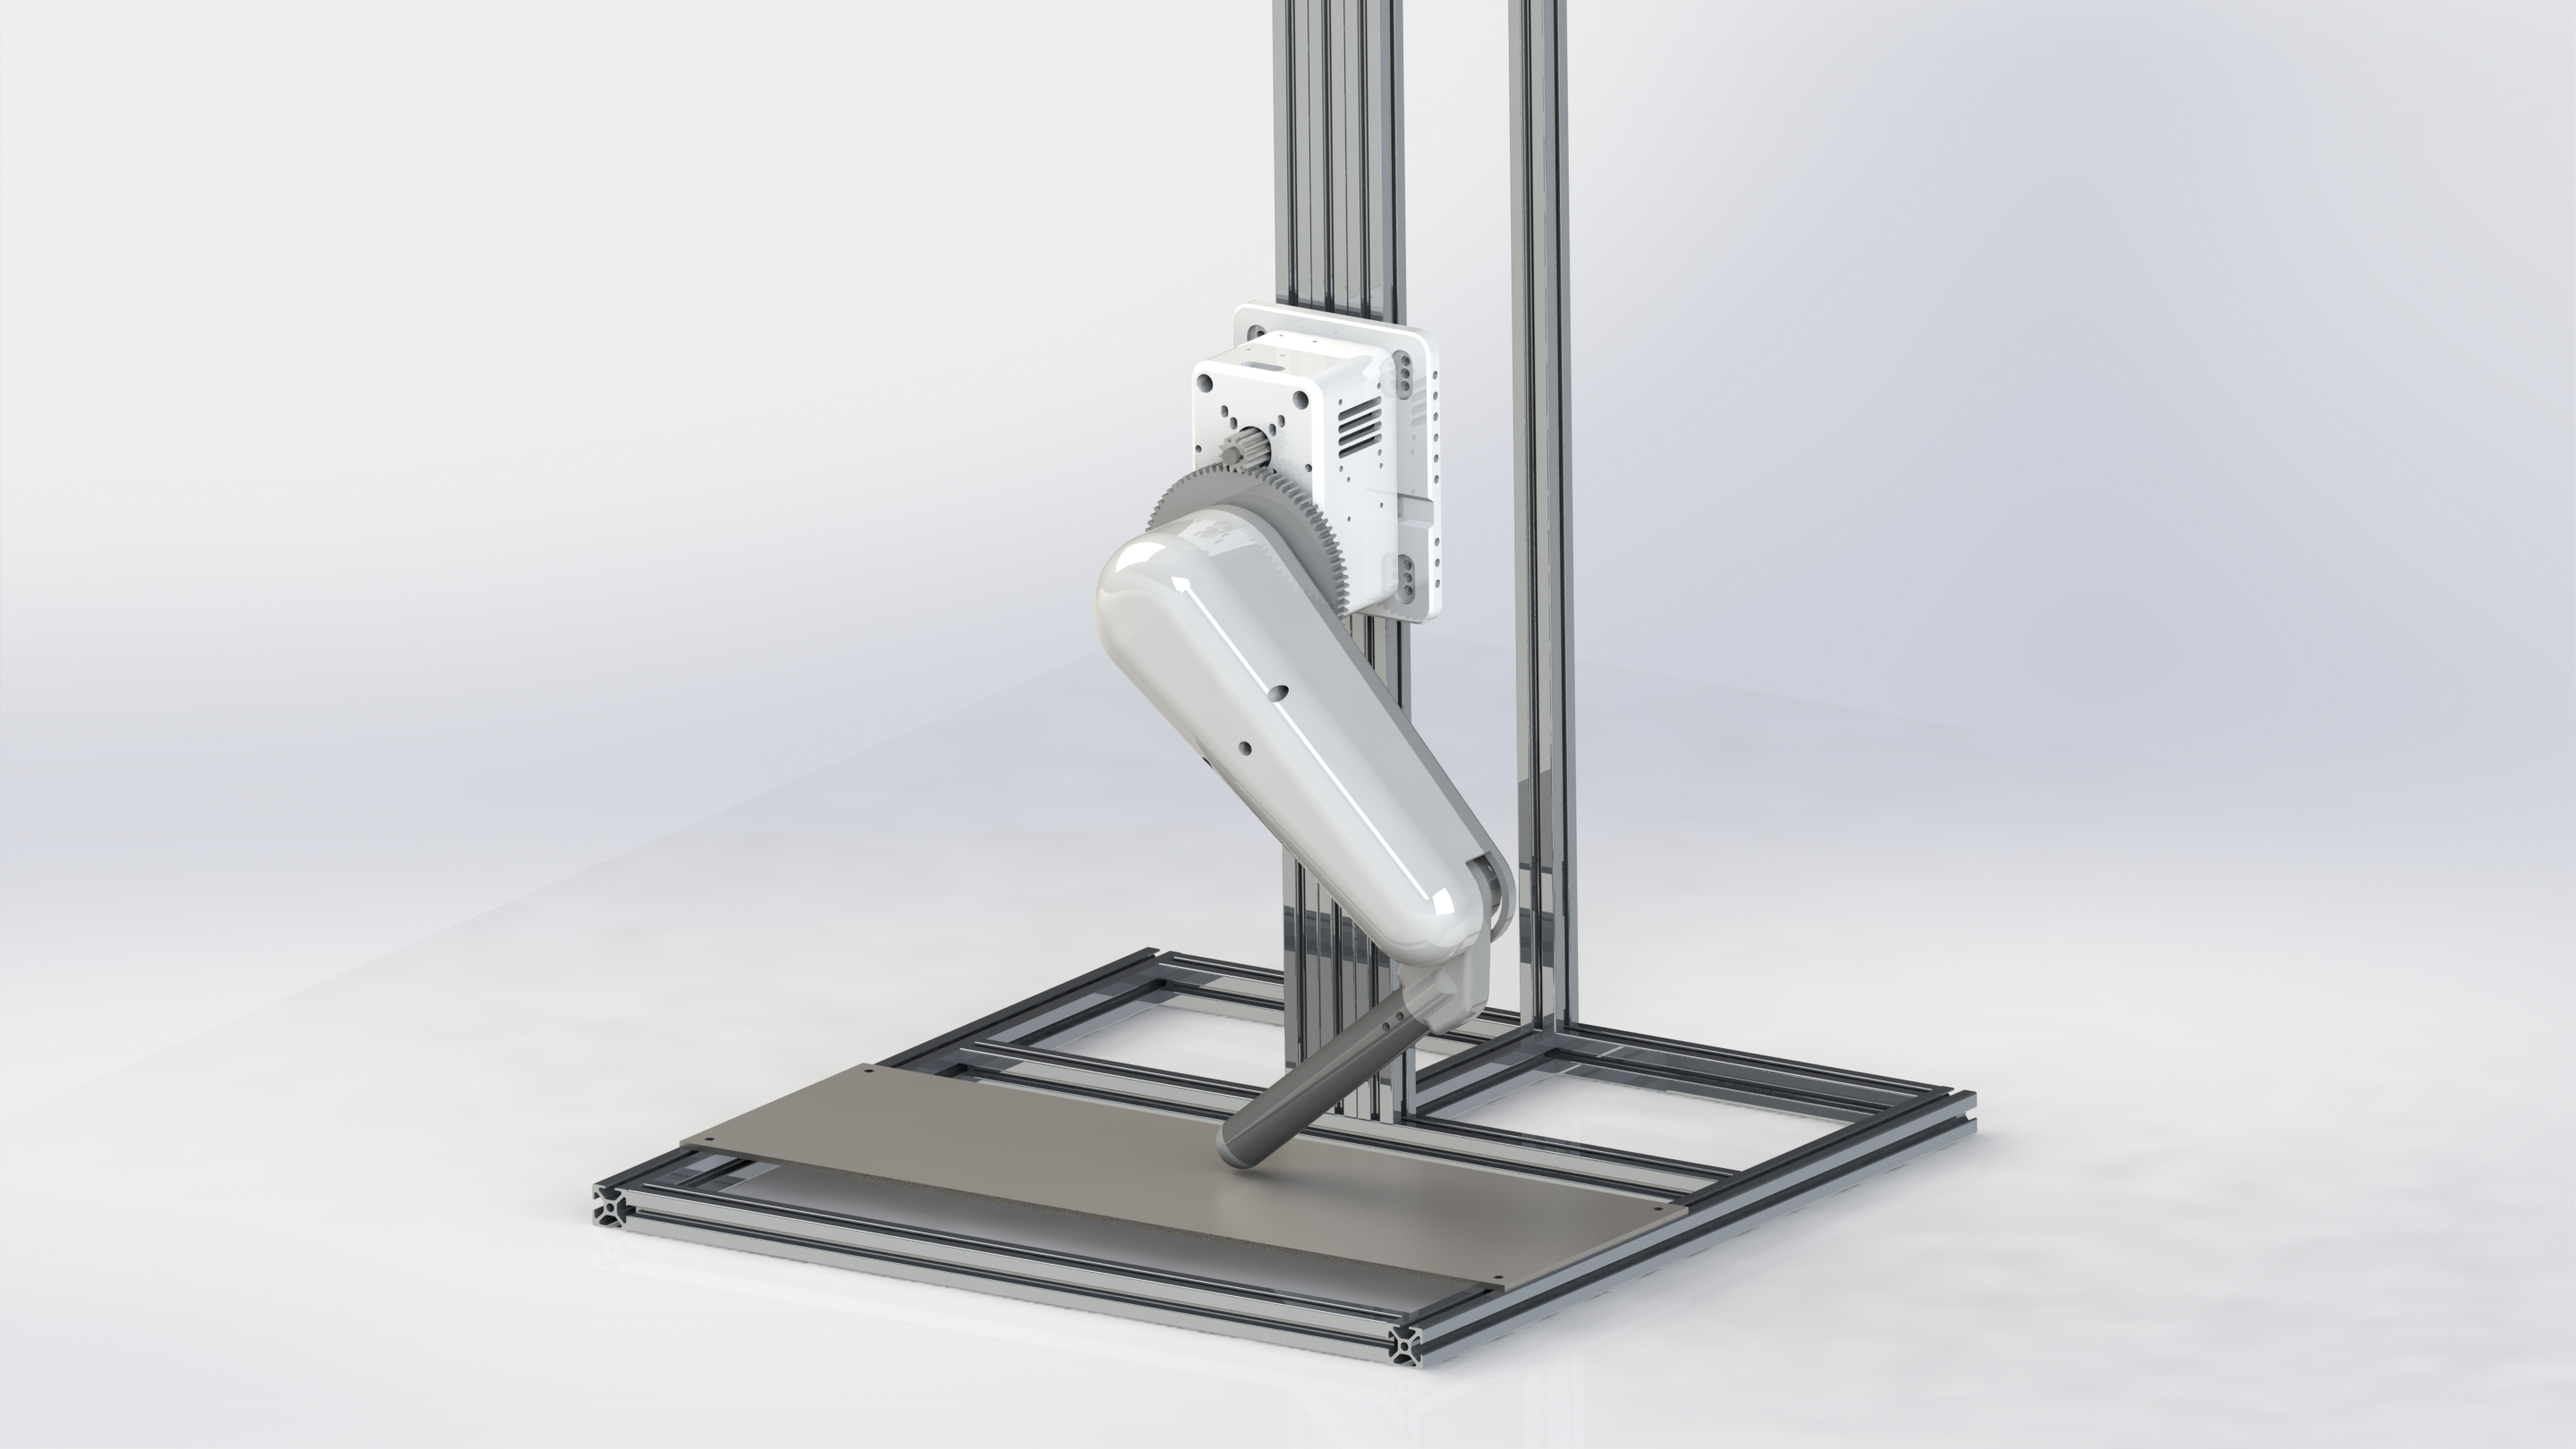
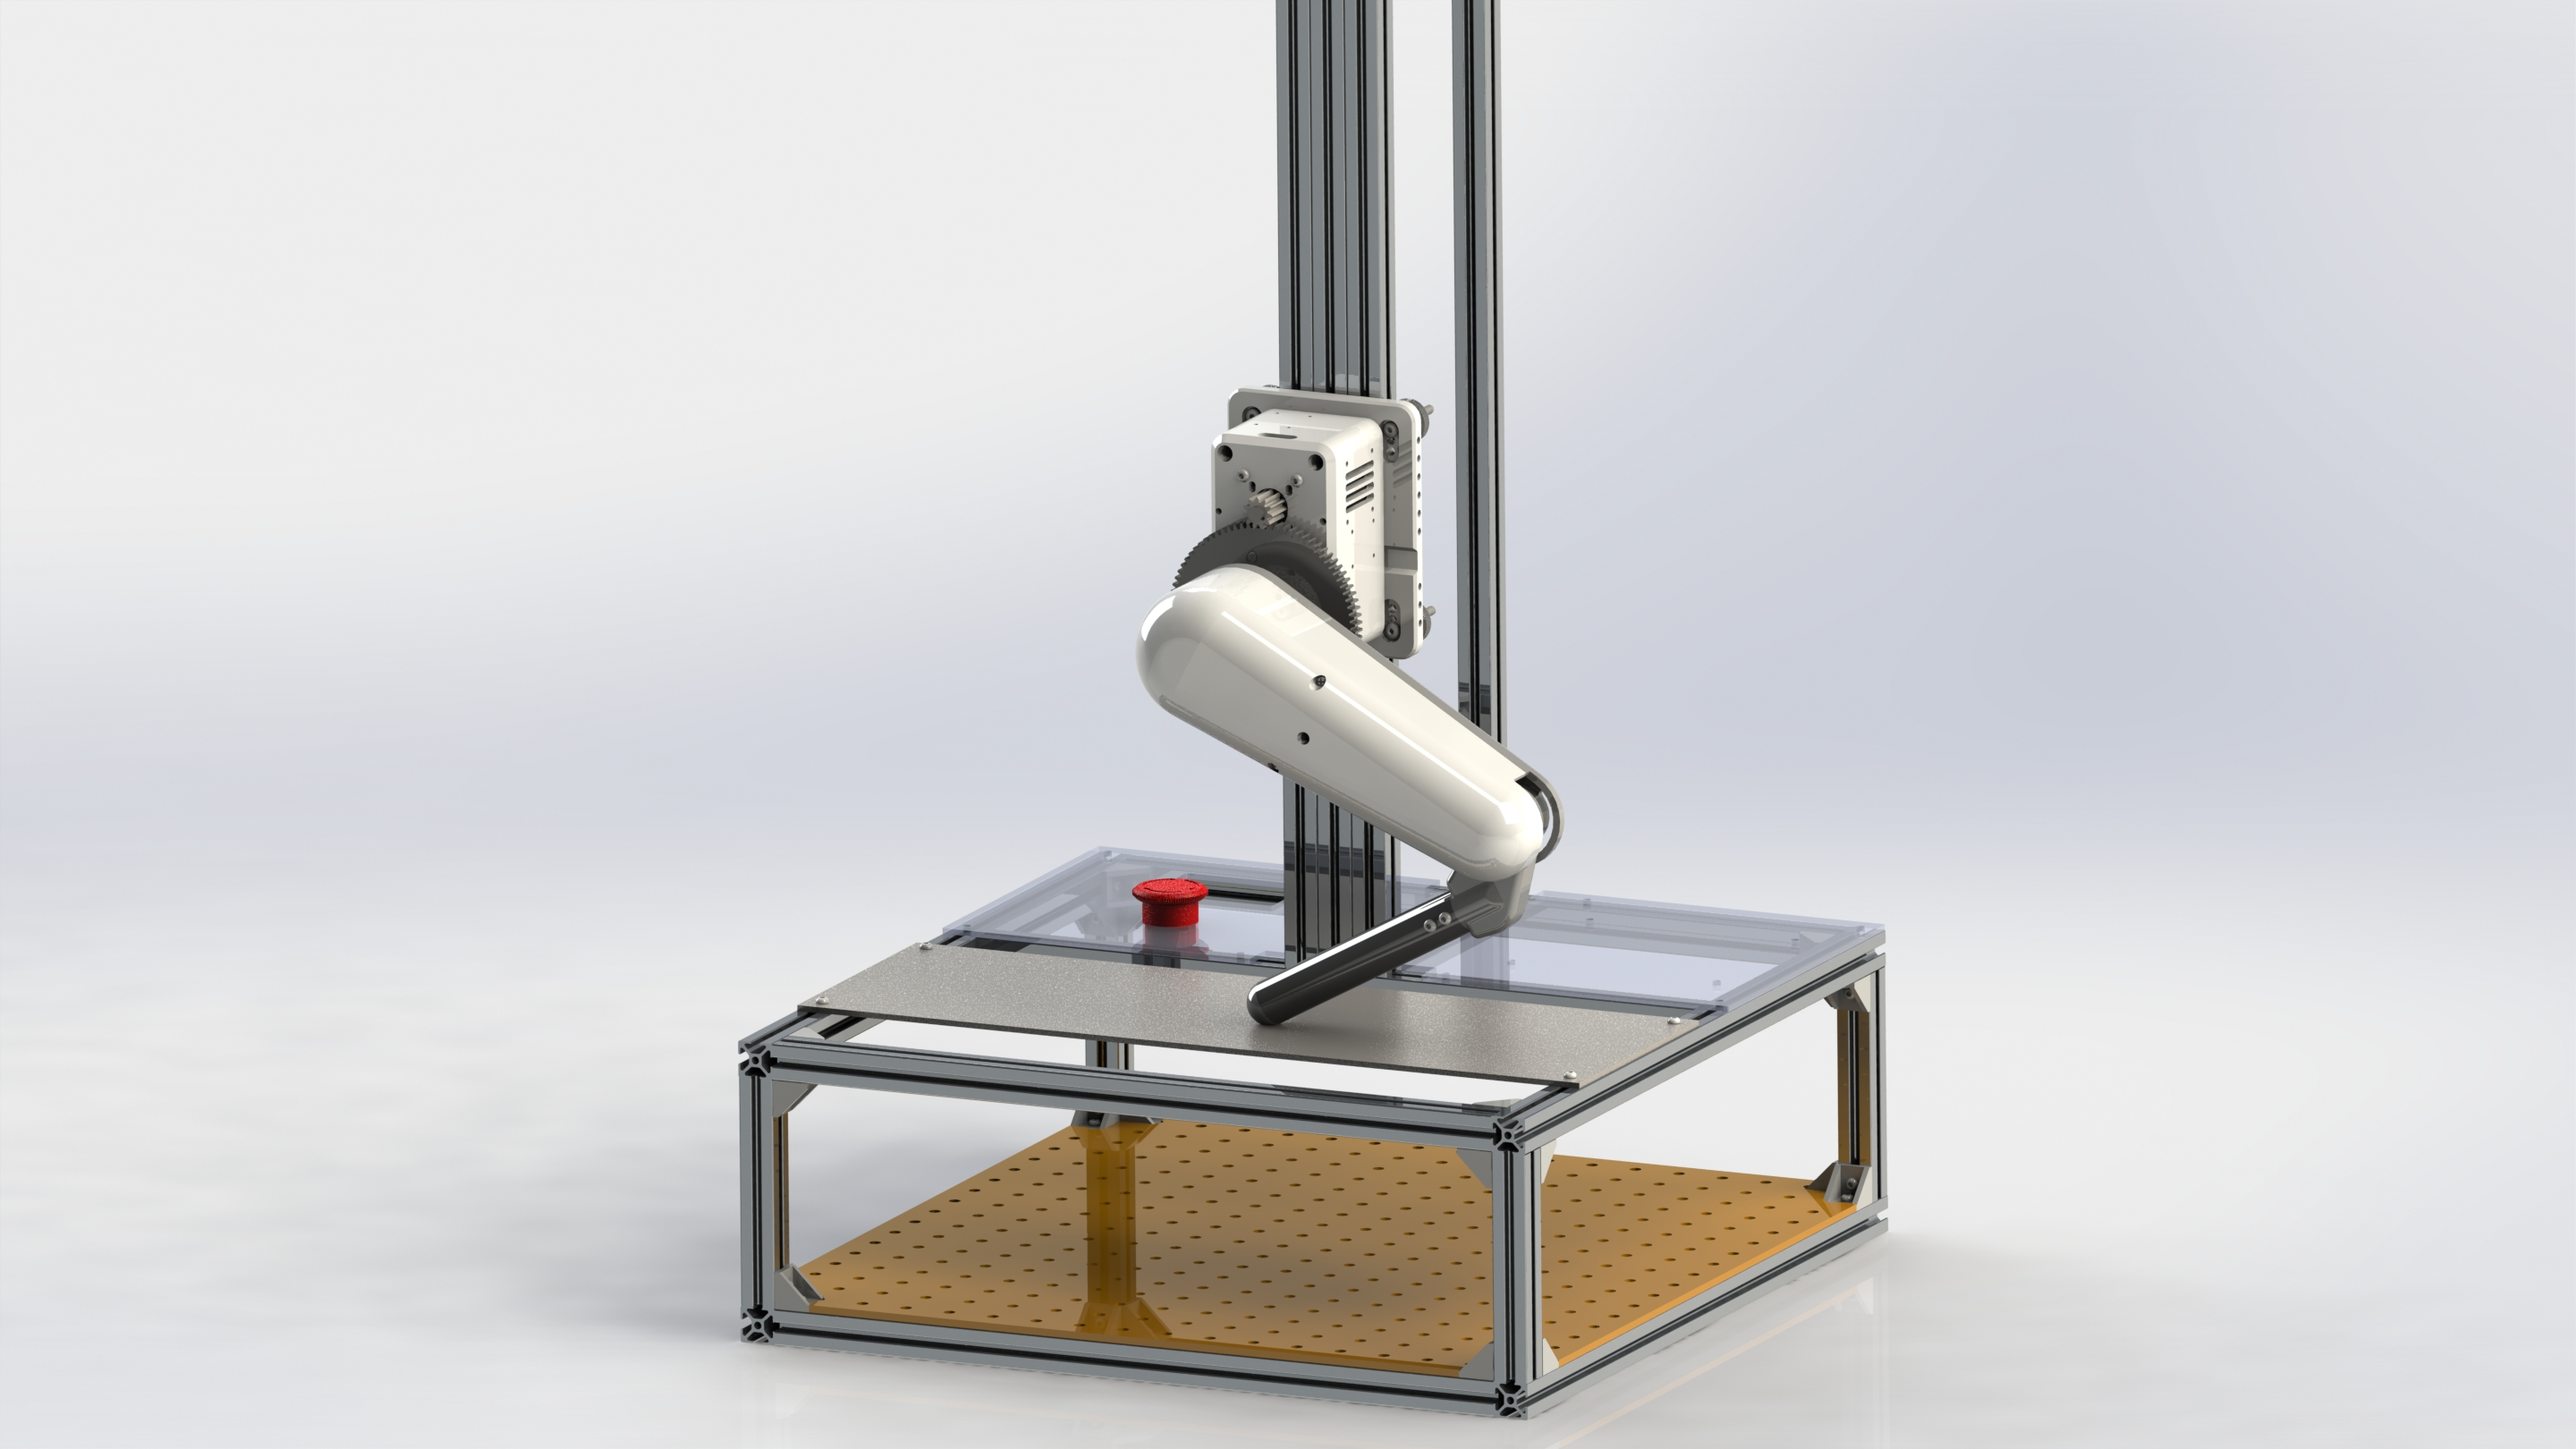
Updated Visuals

Changed region(s): [[0.1562, 0.0, 0.7812, 1.0]]

diff --git a/README.md b/README.md
@@ -7,3 +7,5 @@ All files required for replicating OpenLeg will be provided along with an assemb
 Please reach out if you are interested in building the leg or contributing to the project.
 
 Thanks to my Senior Design partners Kanyon Edvall and Ahsan Qureshi for helping realize the project in the tight schedule of just one semester. Watch our Senior Design demo video here: https://www.youtube.com/watch?v=aXOSeKpADnk 
+
+![](visuals/Full_Project_Render.JPG)
